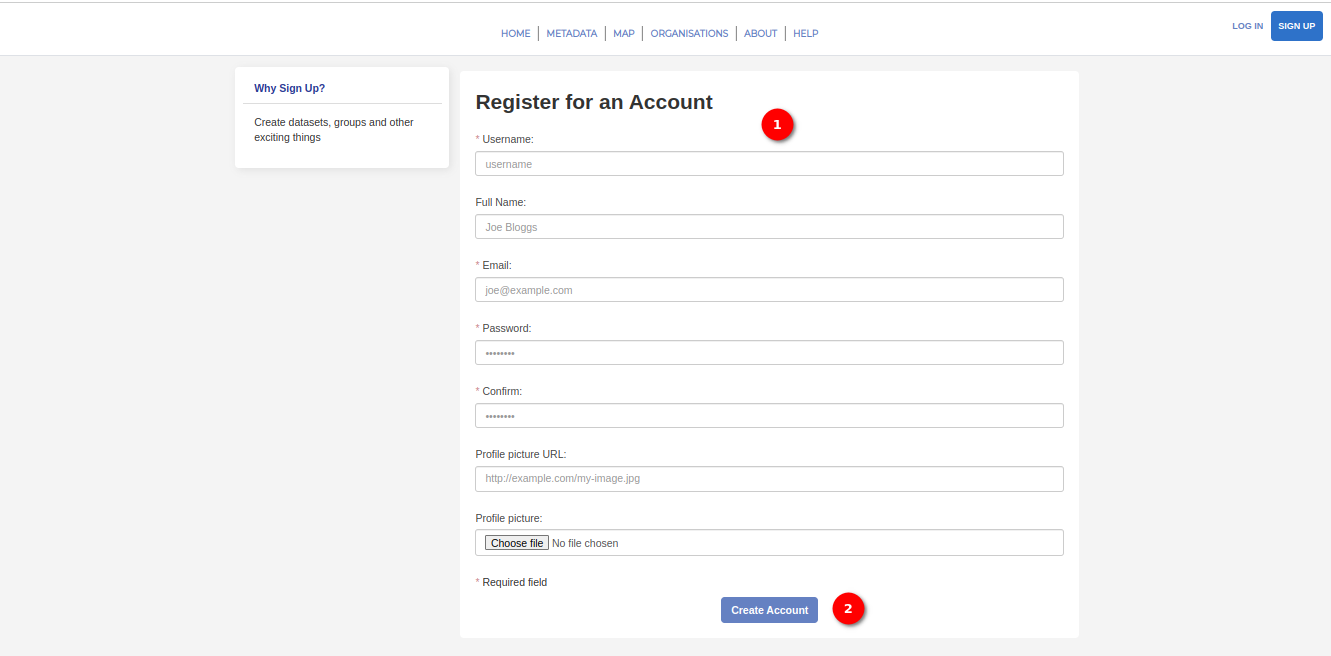
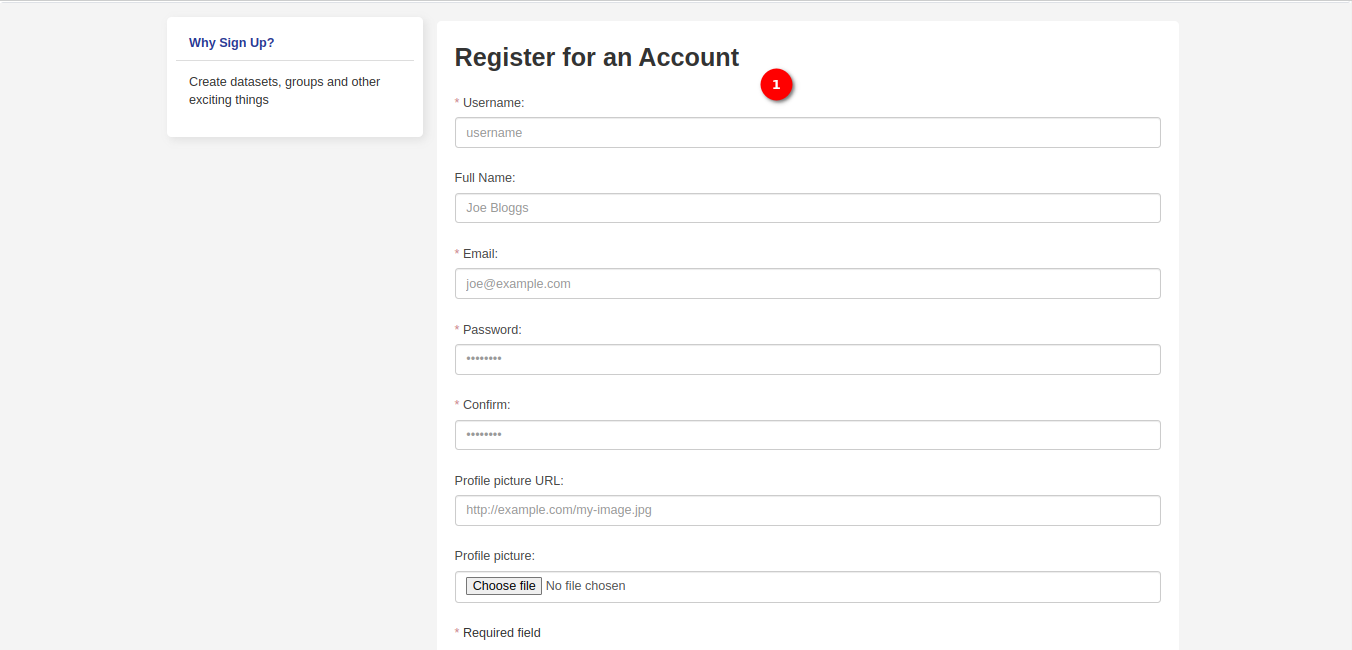
Update sign-up manual

diff --git a/docs/src/user/manual/sign-up.md b/docs/src/user/manual/sign-up.md
@@ -26,7 +26,11 @@ The `Sign Up` page allows users to create a new account, providing access to per
 
     *Note:* Fields marked with * are required.
 
-2. **Create Account:** After filling out the required fields, click on the `Create Account` button.
+![sign up page](./img/signup-3.png)
+
+2. **Captcha:** Complete the Captcha form to verify that you are not a robot. The Captcha form serves as a security measure to differentiate between human users and automated bots attempting to access or interact with the system. It helps prevent spam, abuse, and unauthorised access by requiring users to prove their identity as a human user.
+
+3. **Create Account:** After filling out the required fields, click on the `Create Account` button.
 The system will process the user's information and create the user's account.
 
 ## Conclusion
